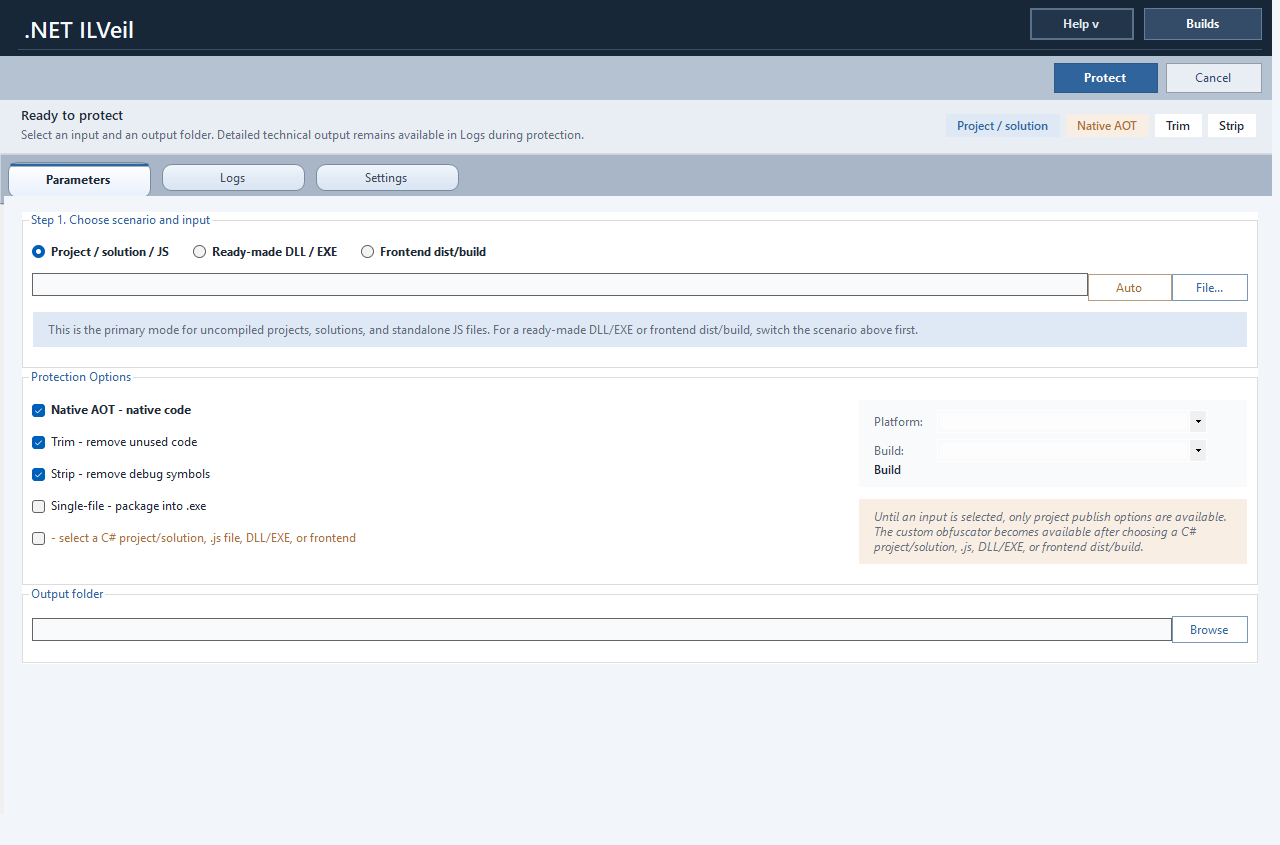
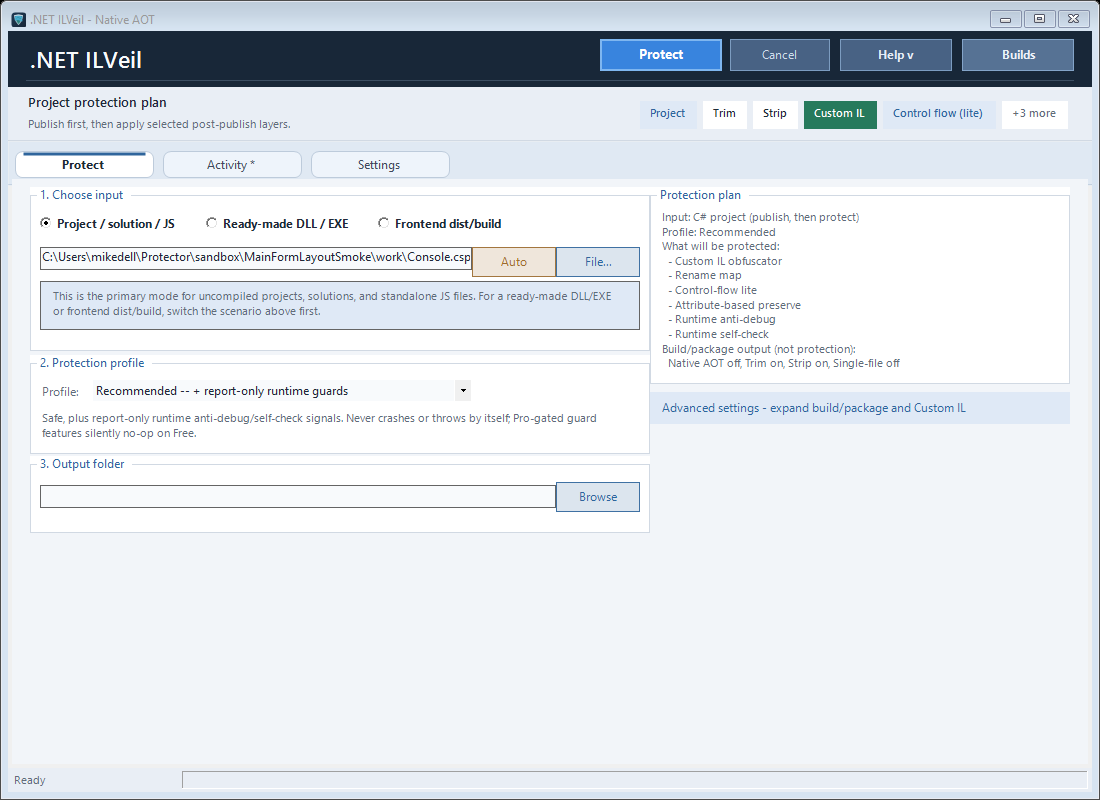
Publish ILVeil v2.0.0

diff --git a/index.html b/index.html
@@ -31,10 +31,10 @@
     "applicationCategory": "DeveloperApplication",
     "operatingSystem": "Windows",
     "url": "https://denis-rz.github.io/ILVeil-Releases/",
-    "downloadUrl": "https://denis-rz.github.io/ILVeil-Releases/releases/ILVeil-win-x64-1.0.0.zip",
+    "downloadUrl": "https://denis-rz.github.io/ILVeil-Releases/releases/ILVeil-win-x64-2.0.0.zip",
     "image": "https://denis-rz.github.io/ILVeil-Releases/assets/screenshots/overview-main.png",
     "description": "Windows desktop application for .NET protection, managed obfuscation, Native AOT publishing, activation management, and stack-trace deobfuscation support.",
-    "softwareVersion": "1.0.0",
+    "softwareVersion": "2.0.0",
     "author": {
       "@type": "Person",
       "name": "Denis-RZ"
@@ -65,7 +65,7 @@
         <a href="#editions">Editions</a>
         <a href="#download">Download</a>
       </nav>
-      <a class="button button--ghost button--small" href="https://github.com/Denis-RZ/ILVeil-Releases/releases/tag/v1.0.0">Release v1.0.0</a>
+      <a class="button button--ghost button--small" href="https://github.com/Denis-RZ/ILVeil-Releases/releases/tag/v2.0.0">Release v2.0.0</a>
     </header>
 
     <main>
@@ -78,7 +78,7 @@
             diagnostics in a calmer desktop experience for teams shipping compiled .NET applications on Windows.
           </p>
           <div class="hero__actions">
-            <a class="button button--primary" href="./releases/ILVeil-win-x64-1.0.0.zip">Download portable build</a>
+            <a class="button button--primary" href="./releases/ILVeil-win-x64-2.0.0.zip">Download v2.0.0</a>
             <a class="button button--ghost" href="./releases/SHA256SUMS.txt">SHA-256 checksums</a>
             <a class="button button--subtle" href="https://github.com/Denis-RZ/ILVeil-Releases">Public release repo</a>
           </div>
@@ -105,7 +105,7 @@
                 <p class="eyebrow">Current release</p>
                 <h2>Public distribution without exposing the private source repository.</h2>
               </div>
-              <span class="release-pill">v1.0.0</span>
+              <span class="release-pill">v2.0.0</span>
             </div>
             <p class="hero-card__copy">
               The public repository contains release assets, checksums, screenshots, and documentation only.
@@ -113,6 +113,7 @@
             </p>
             <ul class="feature-list">
               <li>Portable download package and checksums</li>
+              <li>Application Guard SDK and license issuer</li>
               <li>Product screenshots and release notes</li>
               <li>Licensing contact for Pro and evaluation</li>
             </ul>
@@ -173,8 +174,8 @@
             <p>Preserve stack-trace deobfuscation support and release diagnostics needed for post-ship issue handling.</p>
           </article>
           <article class="card">
-            <h3>Desktop-first experience</h3>
-            <p>Designed for operators who want a GUI-driven process instead of putting every protection step behind a terminal flow.</p>
+            <h3>Application Guard SDK</h3>
+            <p>Optionally bind signed capabilities to derived values, flow checkpoints, and encrypted embedded resources when source integration is available.</p>
           </article>
         </div>
       </section>
@@ -182,24 +183,23 @@
       <section class="section section--showcase">
         <div class="showcase">
           <div class="showcase__copy">
-            <p class="eyebrow">Why this layout exists</p>
-            <h2>A calmer product face for a security-heavy tool.</h2>
+            <p class="eyebrow">Two protection levels</p>
+            <h2>Binary protection first, stronger source binding when needed.</h2>
             <p>
-              The public site is intentionally softer than the product category usually is. Instead of a loud “security dark theme,”
-              the page now leans into a light corporate palette, clearer content rhythm, and calmer decision points.
+              Ready-made DLL/EXE files can use the normal protection workflow without source changes. Application Guard is a separate advanced SDK path for license-derived values and encrypted resources tied to real feature flows.
             </p>
             <div class="bullet-grid">
               <article>
-                <strong>More corporate</strong>
-                <p>Cleaner grid, softer contrast, clearer hierarchy, and less “hacker tooling” mood.</p>
+                <strong>No mandatory SDK</strong>
+                <p>VM, renaming, strings, control flow, and runtime guards remain available for compiled applications.</p>
               </article>
               <article>
-                <strong>More legible</strong>
-                <p>Shorter hero copy, calmer cards, and more whitespace around product claims.</p>
+                <strong>Guided integration</strong>
+                <p>The desktop UI reports Not integrated, Incomplete, or Ready and exports a starter package with examples.</p>
               </article>
               <article>
-                <strong>More product-oriented</strong>
-                <p>The page frames ILVeil as a release workflow, not just as an obfuscation checkbox list.</p>
+                <strong>Honest boundary</strong>
+                <p>Guard strengthens source-integrated features; it does not claim to discover business logic automatically.</p>
               </article>
             </div>
           </div>
@@ -317,9 +317,9 @@
             </p>
           </div>
           <div class="download-banner__links">
-            <a class="download-link" href="./releases/ILVeil-win-x64-1.0.0.zip">ILVeil-win-x64-1.0.0.zip</a>
+            <a class="download-link" href="./releases/ILVeil-win-x64-2.0.0.zip">ILVeil-win-x64-2.0.0.zip</a>
             <a class="download-link" href="./releases/SHA256SUMS.txt">SHA256SUMS.txt</a>
-            <a class="download-link" href="https://github.com/Denis-RZ/ILVeil-Releases/releases/tag/v1.0.0">Release notes</a>
+            <a class="download-link" href="https://github.com/Denis-RZ/ILVeil-Releases/releases/tag/v2.0.0">Release notes</a>
           </div>
         </div>
       </section>
@@ -339,8 +339,8 @@
             <p>No. ILVeil is presented here as a Windows desktop GUI application. Public delivery is through GitHub Releases and GitHub Pages.</p>
           </article>
           <article class="card">
-            <h3>Can GitHub Pages look corporate?</h3>
-            <p>Yes. GitHub Pages can host a polished static product site. The limitation is backend logic, not visual brand quality.</p>
+            <h3>Does Application Guard require source changes?</h3>
+            <p>Yes, for value and flow binding. It is optional: normal binary protection works on ready-made managed DLL/EXE files without Guard markers.</p>
           </article>
         </div>
       </section>
@@ -368,7 +368,7 @@
       <p>
         <a href="https://github.com/Denis-RZ/ILVeil-Releases">Public repository</a>
         <span>·</span>
-        <a href="https://github.com/Denis-RZ/ILVeil-Releases/releases/tag/v1.0.0">Release v1.0.0</a>
+        <a href="https://github.com/Denis-RZ/ILVeil-Releases/releases/tag/v2.0.0">Release v2.0.0</a>
       </p>
     </footer>
   </div>

diff --git a/release-notes.md b/release-notes.md
@@ -1,14 +1,23 @@
-# ILVeil v1.0.0
+# ILVeil v2.0.0
 
-Initial public desktop release package.
+Major protection and product-integration release.
 
 ## Included
 
-- portable win-x64 desktop build
+- portable self-contained Windows x64 desktop build
 - built-in Help assets
 - activation UI
-- managed protection workflow
+- managed protection profiles, VM auto-selection, string/control-flow/rename protection, and runtime guards
 - Native AOT publish workflow
+- Application Guard SDK with ECDSA-signed application capabilities
+- derived-value and checkpoint-bound feature flows
+- encrypted embedded resources, including flow-bound decryption
+- Application License Issuer with DPAPI-protected private keys
+- in-product Guard integration states, guide, starter-package export, and post-protection verification
+
+## Compatibility and scope
+
+Normal binary protection does not require source changes. Application Guard is optional and requires source integration for strong value/flow binding. The integrity marker remains audit-only and is explicitly reported as not runtime-enforced.
 
 ## Integrity
 

diff --git a/README.md b/README.md
@@ -2,13 +2,13 @@
 
 Windows desktop `.NET obfuscator` and release protection workflow for managed assemblies, Native AOT publishing, activation management, and post-release diagnostics.
 
-[Product Website](https://denis-rz.github.io/ILVeil-Releases/) | [Latest Release](https://github.com/Denis-RZ/ILVeil-Releases/releases/tag/v1.0.0) | [Download Windows x64 Build](./releases/ILVeil-win-x64-1.0.0.zip)
+[Product Website](https://denis-rz.github.io/ILVeil-Releases/) | [Latest Release](https://github.com/Denis-RZ/ILVeil-Releases/releases/tag/v2.0.0) | [Download Windows x64 Build](./releases/ILVeil-win-x64-2.0.0.zip)
 
 ## Start Here
 
 - Open the product site: [ILVeil Website](https://denis-rz.github.io/ILVeil-Releases/)
-- Open the release page: [ILVeil v1.0.0](https://github.com/Denis-RZ/ILVeil-Releases/releases/tag/v1.0.0)
-- Download the portable package: [ILVeil-win-x64-1.0.0.zip](./releases/ILVeil-win-x64-1.0.0.zip)
+- Open the release page: [ILVeil v2.0.0](https://github.com/Denis-RZ/ILVeil-Releases/releases/tag/v2.0.0)
+- Download the portable package: [ILVeil-win-x64-2.0.0.zip](./releases/ILVeil-win-x64-2.0.0.zip)
 - Verify integrity: [SHA256SUMS.txt](./releases/SHA256SUMS.txt)
 
 ## What This Public Repository Contains
@@ -29,6 +29,9 @@ It does **not** contain the private source code repository.
 - custom IL layer with compatibility-aware preservation logic
 - rename-map output and support-oriented release diagnostics
 - activation and edition management inside the desktop UI
+- VM auto-selection and expanded return-shape/instance-operation coverage
+- optional Application Guard SDK for signed capabilities, derived values, flow checkpoints, and encrypted resources
+- bundled Application License Issuer and SDK integration examples
 
 ## Target Use Cases
 